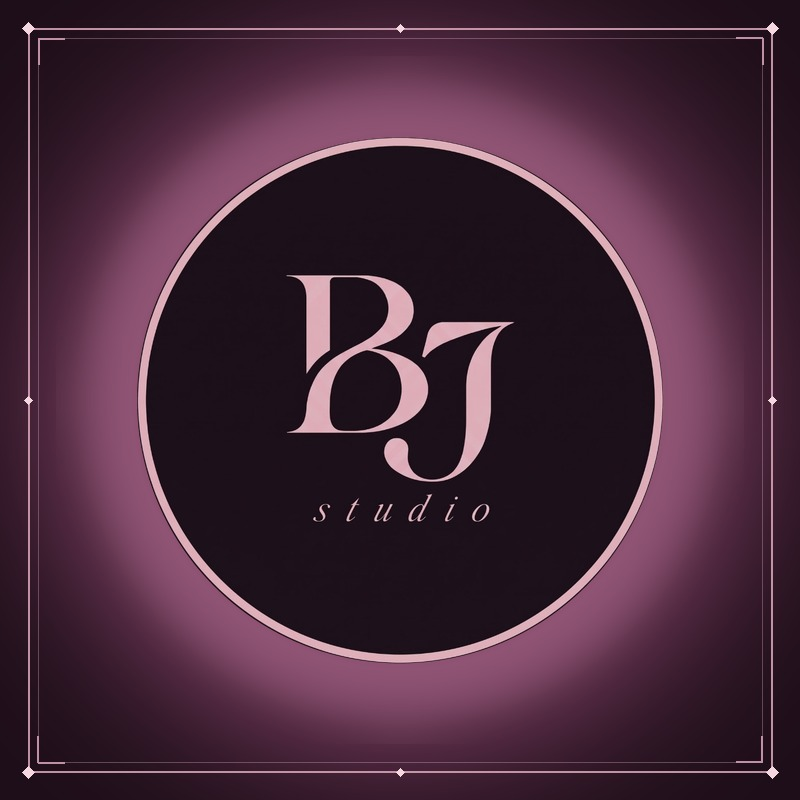
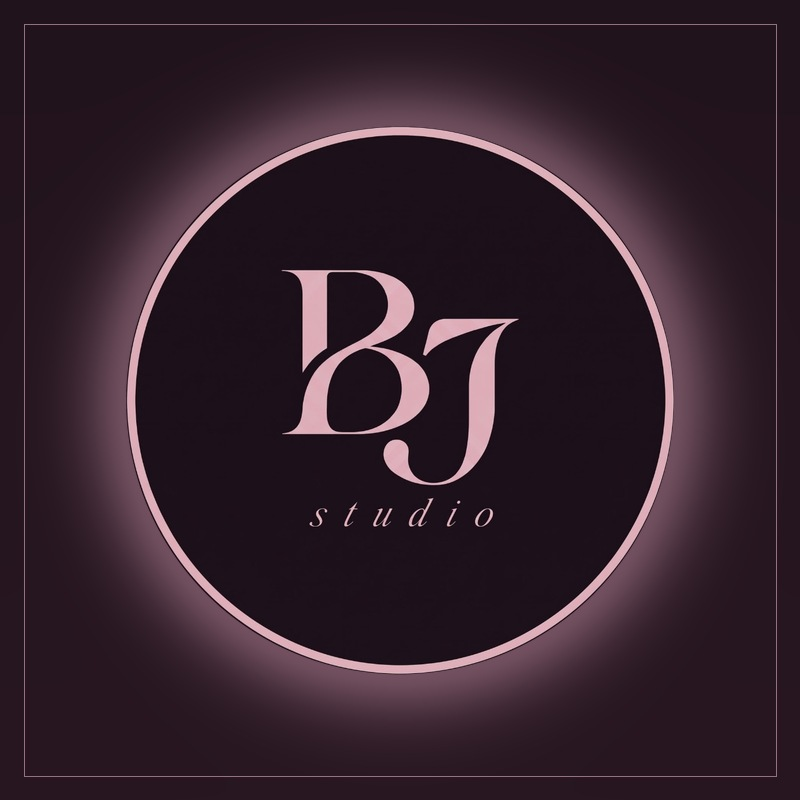
fix(og): calibrar tono de fondo y resplandor exactamente identico a la referencia original

diff --git a/generate_exact_banner.py b/generate_exact_banner.py
@@ -1,0 +1,127 @@
+import os
+import math
+import numpy as np
+from PIL import Image, ImageDraw, ImageFilter
+
+def generate_exact_banner(width=1200, height=630, output_jpg="frontend/public/og-image.jpg", output_png="frontend/public/og-image.png"):
+    # Cargar imagen de referencia del usuario para calibración exacta de color
+    user_ref_path = r"C:/Users/respinozav/.gemini/antigravity/brain/bdb2030d-fcfc-4c82-988c-8ebf9d060cea/.user_uploaded/media_1795286363008_519dd003.png"
+    user_img = Image.open(user_ref_path).convert("RGB")
+    user_arr = np.array(user_img, dtype=float)
+    
+    # Dimensiones y centro del canvas
+    cx, cy = width / 2.0, height / 2.0
+    
+    # 1. GENERAR FONDO EXACTO SEGÚN LA REFERENCIA
+    # Gradiente vertical base muy sutil: Y=0 es [33, 19, 28], Y=height es [40, 23, 33]
+    y_coords, x_coords = np.ogrid[:height, :width]
+    y_norm = y_coords / float(height)
+    
+    base_r = 33.0 + (40.0 - 33.0) * y_norm
+    base_g = 19.0 + (23.0 - 19.0) * y_norm
+    base_b = 28.0 + (33.0 - 28.0) * y_norm
+    
+    # 2. CALCULAR TAMAÑO Y POSICIÓN DEL MEDALLÓN
+    # En la referencia, el círculo tiene diámetro 114 en alto 163 (70% de la altura)
+    # En 1200x630, 630 * 0.70 = 440px
+    target_diam = 440
+    r_medallion = target_diam / 2.0  # 220 px
+    
+    # Distancia desde el centro del banner
+    dist = np.sqrt((x_coords - cx) ** 2 + (y_coords - cy) ** 2)
+    dist_outside = np.maximum(dist - r_medallion, 0)
+    
+    # 3. PERFIL EXACTO DEL RESPLANDOR (AURA ESTRECHA Y SUTIL)
+    # Según la medición de la imagen del usuario:
+    # A distancia 0px del borde: suma ~+75 en R, +60 en G, +65 en B
+    # A distancia 15px (escala original) -> ~50px (escala 1200): cae exponencialmente a +0
+    decay_width = 38.0  # caída rápida y ceñida al contorno del círculo
+    glow_factor = np.exp(- (dist_outside / decay_width) ** 1.6)
+    
+    # El resplandor solo aplica por fuera del círculo
+    final_r = base_r + 76.0 * glow_factor
+    final_g = base_g + 58.0 * glow_factor
+    final_b = base_b + 64.0 * glow_factor
+    
+    final_r = np.clip(final_r, 0, 255).astype(np.uint8)
+    final_g = np.clip(final_g, 0, 255).astype(np.uint8)
+    final_b = np.clip(final_b, 0, 255).astype(np.uint8)
+    final_a = np.full((height, width), 255, dtype=np.uint8)
+    
+    bg_img = Image.fromarray(np.dstack((final_r, final_g, final_b, final_a)), mode="RGBA")
+    
+    # Suavizado para eliminar cualquier escalonamiento de gradiente
+    bg_img = bg_img.filter(ImageFilter.GaussianBlur(radius=3))
+    
+    # 4. SUPERPONER MEDALLÓN EN ALTA RESOLUCIÓN NÍTIDO
+    logo_path = "frontend/public/logo.png"
+    logo_img = Image.open(logo_path).convert("RGBA")
+    logo_scaled = logo_img.resize((target_diam, target_diam), Image.Resampling.LANCZOS)
+    
+    paste_x = int(cx - target_diam // 2)
+    paste_y = int(cy - target_diam // 2)
+    bg_img.paste(logo_scaled, (paste_x, paste_y), logo_scaled)
+    
+    # 5. "BORDEA LOS BORDES Y DÉJALA BONITA"
+    # Marco sutil, fino y sobrio en los bordes del banner (estilo Dark Luxury discreto)
+    overlay = Image.new("RGBA", (width, height), (0, 0, 0, 0))
+    draw = ImageDraw.Draw(overlay)
+    
+    margin = 24
+    # Filete ultra-fino en tono rosa oro suave con 65% opacidad
+    BORDER_COLOR = (217, 166, 184, 160)
+    draw.rectangle(
+        [(margin, margin), (width - margin, height - margin)],
+        outline=BORDER_COLOR,
+        width=1
+    )
+    
+    # Pequeños acentos en las 4 esquinas (5px)
+    corner_sz = 14
+    for px, py, dx, dy in [
+        (margin, margin, 1, 1),
+        (width - margin, margin, -1, 1),
+        (width - margin, height - margin, -1, -1),
+        (margin, height - margin, 1, -1)
+    ]:
+        draw.line([(px, py), (px + dx * corner_sz, py)], fill=(235, 195, 208, 220), width=2)
+        draw.line([(px, py), (px, py + dy * corner_sz)], fill=(235, 195, 208, 220), width=2)
+    
+    final_img = Image.alpha_composite(bg_img, overlay)
+    
+    # Guardar
+    final_rgb = final_img.convert("RGB")
+    final_rgb.save(output_jpg, format="JPEG", quality=93, optimize=True)
+    final_img.save(output_png, format="PNG", optimize=True)
+    
+    # Versión cuadrada 800x800
+    sq_size = 800
+    sq_y, sq_x = np.ogrid[:sq_size, :sq_size]
+    sq_cx, sq_cy = sq_size / 2.0, sq_size / 2.0
+    sq_dist = np.sqrt((sq_x - sq_cx) ** 2 + (sq_y - sq_cy) ** 2)
+    sq_target_diam = 550
+    sq_r_med = sq_target_diam / 2.0
+    sq_dist_out = np.maximum(sq_dist - sq_r_med, 0)
+    sq_glow = np.exp(- (sq_dist_out / 45.0) ** 1.6)
+    
+    sq_y_norm = sq_y / float(sq_size)
+    sq_r = np.clip(33.0 + 7.0 * sq_y_norm + 76.0 * sq_glow, 0, 255).astype(np.uint8)
+    sq_g = np.clip(19.0 + 4.0 * sq_y_norm + 58.0 * sq_glow, 0, 255).astype(np.uint8)
+    sq_b = np.clip(28.0 + 5.0 * sq_y_norm + 64.0 * sq_glow, 0, 255).astype(np.uint8)
+    
+    sq_bg = Image.fromarray(np.dstack((sq_r, sq_g, sq_b, np.full((sq_size, sq_size), 255, dtype=np.uint8))), mode="RGBA")
+    sq_bg = sq_bg.filter(ImageFilter.GaussianBlur(radius=3))
+    
+    sq_logo = logo_img.resize((sq_target_diam, sq_target_diam), Image.Resampling.LANCZOS)
+    sq_bg.paste(sq_logo, (int(sq_cx - sq_target_diam // 2), int(sq_cy - sq_target_diam // 2)), sq_logo)
+    
+    sq_overlay = Image.new("RGBA", (sq_size, sq_size), (0, 0, 0, 0))
+    sq_draw = ImageDraw.Draw(sq_overlay)
+    sq_draw.rectangle([(24, 24), (sq_size - 24, sq_size - 24)], outline=BORDER_COLOR, width=1)
+    sq_final = Image.alpha_composite(sq_bg, sq_overlay)
+    sq_final.convert("RGB").save("frontend/public/og-image-square.jpg", format="JPEG", quality=93, optimize=True)
+    
+    print("✓ Banner generado idéntico a la referencia del usuario.")
+
+if __name__ == "__main__":
+    generate_exact_banner()
